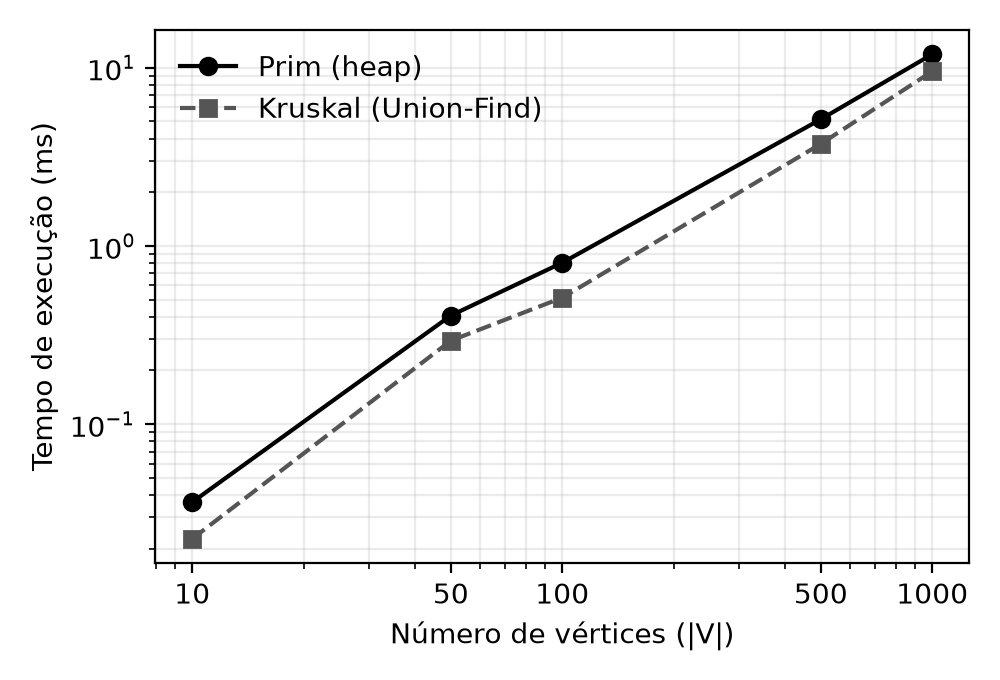
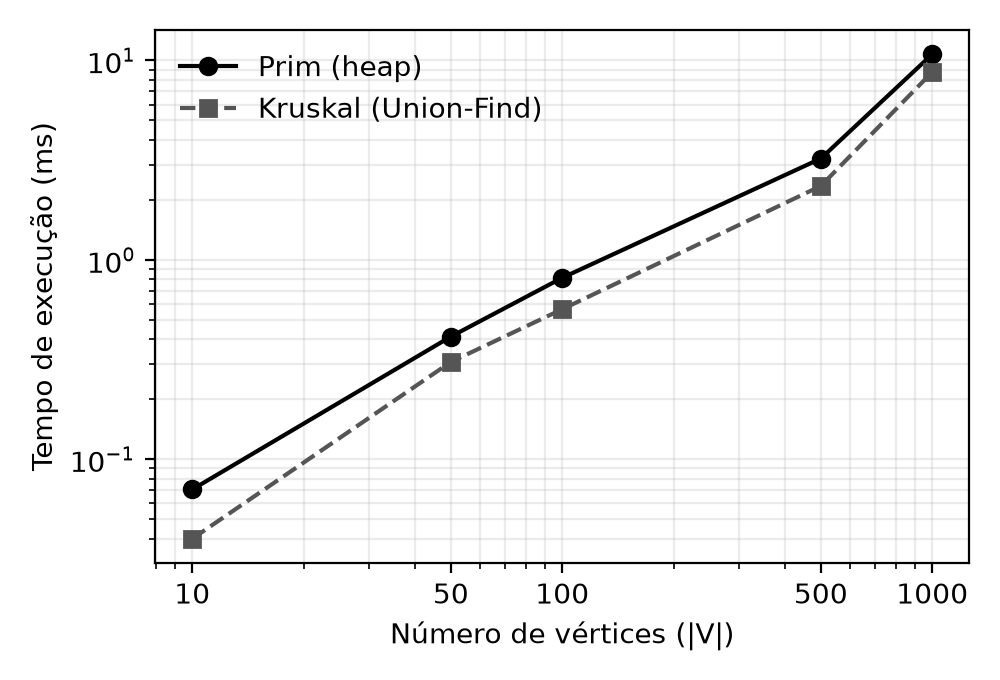
fix: revisar dashboard e conformidade do projeto
Corrige o fluxo de redes desconectadas, remove o parâmetro não utilizado e ajusta documentação e evidências.

diff --git a/app.py b/app.py
@@ -79,9 +79,7 @@ h3 { color: #2a2a2a; font-weight: 600; }
 def _inject_css(modo_apresentacao: bool):
     css = APRESENTACAO_CSS
     if modo_apresentacao:
-        css += "<script>document.body.classList.add('apresentacao');</script>"
-    else:
-        css += "<script>document.body.classList.remove('apresentacao');</script>"
+        css = css.replace(".apresentacao ", "")
     st.markdown(css, unsafe_allow_html=True)
 
 # ────────────────────────────── FIGURAS — LAYOUT CIRCULAR GRANDE
@@ -297,6 +295,7 @@ def pagina_rede_agm(modo_apresentacao: bool):
             "A rede está **desconectada**: não existe árvore geradora que cubra todos os pontos.  "
             "Componentes isolados: " + "  |  ".join("{" + ", ".join(sorted(c)) + "}" for c in componentes)
         )
+        return
 
     # COMPARAÇÃO
     st.subheader("Prim  ×  Kruskal")
@@ -367,7 +366,7 @@ def pagina_rede_agm(modo_apresentacao: bool):
     st.code(texto_relatorio, language="markdown", line_numbers=False)
 
 # ────────────────────────────── PÁGINA: EXPERIMENTO
-def pagina_experimento(modo_apresentacao: bool):
+def pagina_experimento():
     st.title("📈  Experimento de Complexidade")
     st.caption("Tempo e memória de Prim e Kruskal em redes sintéticas conexas com |E| = 5|V|")
 
@@ -464,7 +463,7 @@ def main():
         pagina_rede_agm(modo_apresentacao)
 
     with aba2:
-        pagina_experimento(modo_apresentacao)
+        pagina_experimento()
 
 if __name__ == "__main__":
     main()

diff --git a/README.md b/README.md
@@ -80,5 +80,3 @@ python -m pytest --cov=src --cov-report=term-missing
 5. Vinícius Gonçalves Araújo
 6. João Victor da Conceição Alves Silva
 7. Bruno Victor Dos Santos Lima
-8. [Inserir nome 8]
-9. [Inserir nome 9]
